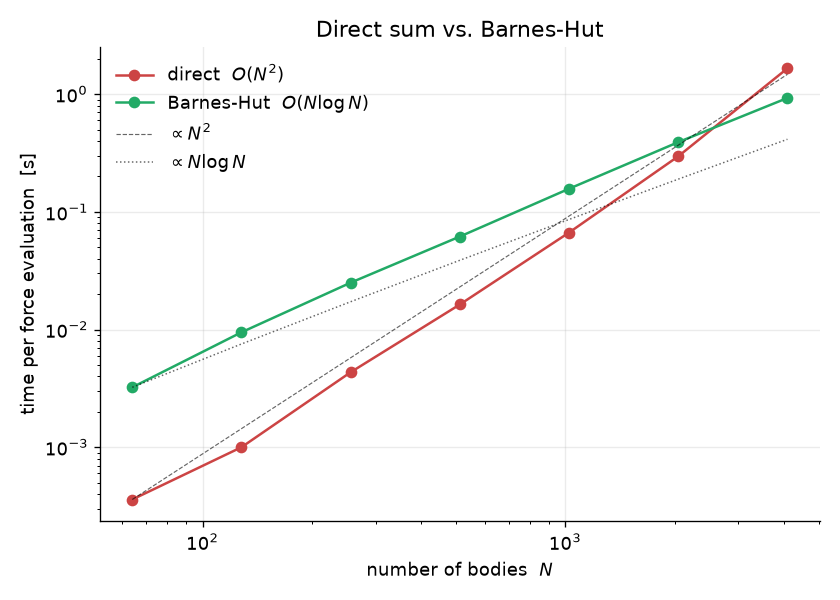
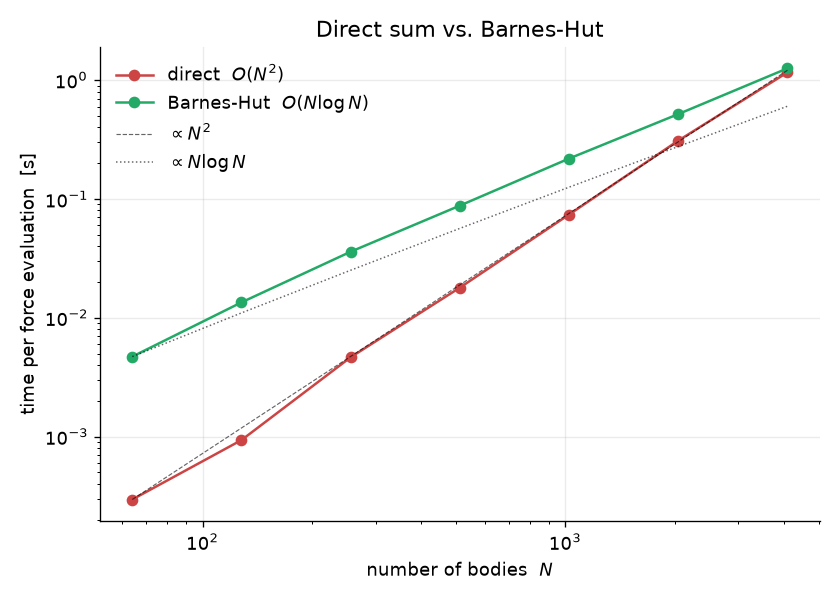
Add 3D octree cluster demo; refresh figures and README
New examples/octree_3d.py evolves a 3D Plummer cluster with the octree and
renders a slowly rotating view to figures/cluster_3d.gif, after reporting the
octree force error against the 3D direct sum.

Regenerate the 2D Barnes-Hut scaling plot and cluster animation (the tree and
plummer_sphere changes alter them), and update the README to describe the
quadtree/octree solver, embed the 3D cluster, and correct the limitations note.

Claude-Session: https://claude.ai/code/session_019LCqCXgNF7WcL81HF3qpmq

diff --git a/examples/octree_3d.py b/examples/octree_3d.py
@@ -1,0 +1,79 @@
+"""3D Barnes-Hut octree showcase: a star cluster evolved with the tree code.
+
+Confirms the octree matches the 3D direct sum, then evolves a 3D Plummer-sphere
+cluster entirely with Barnes-Hut and renders a slowly rotating view to
+``figures/cluster_3d.gif``.
+"""
+
+import numpy as np
+
+from _common import fig_path, use_style
+import matplotlib.pyplot as plt
+from matplotlib.animation import FuncAnimation, PillowWriter
+from mpl_toolkits.mplot3d import Axes3D  # noqa: F401  (registers 3D projection)
+
+from nbody import initial_conditions as ic, simulate, forces
+from nbody.barnes_hut import barnes_hut_accelerations, accelerations_bh
+
+
+def report_accuracy():
+    """Print the octree force error against the exact 3D direct sum."""
+    cluster = ic.plummer_sphere(n=400, seed=7, dim=3)
+    direct = forces.accelerations(cluster.positions, cluster.masses,
+                                  G=cluster.G, softening=cluster.softening)
+    for theta in (0.0, 0.3, 0.6):
+        bh = accelerations_bh(cluster.positions, cluster.masses, G=cluster.G,
+                              softening=cluster.softening, theta=theta)
+        rel = (np.linalg.norm(bh - direct, axis=1)
+               / np.linalg.norm(direct, axis=1))
+        print(f"theta={theta}: mean force error {rel.mean():.2e}, "
+              f"max {rel.max():.2e}")
+
+
+def make_gif():
+    sys = ic.plummer_sphere(n=300, total_mass=1.0, radius=1.0, seed=7, dim=3)
+    n_frames, steps_per_frame = 110, 3
+    dt = 4e-3
+    traj = simulate(sys, dt, n_frames * steps_per_frame,
+                    record_every=steps_per_frame,
+                    acc_func=barnes_hut_accelerations(theta=0.6))
+    print(f"3D cluster energy error (max): {traj.energy_error().max():.2e}")
+
+    pos = traj.positions
+    speed = np.linalg.norm(traj.velocities, axis=2)
+
+    fig = plt.figure(figsize=(5, 5))
+    ax = fig.add_subplot(111, projection="3d")
+    ax.set_facecolor("black")
+    fig.patch.set_facecolor("black")
+    lim = 2.0
+    ax.set_xlim(-lim, lim)
+    ax.set_ylim(-lim, lim)
+    ax.set_zlim(-lim, lim)
+    ax.set_axis_off()
+    ax.set_title("3D Plummer cluster, Barnes-Hut octree ($\\theta=0.6$)",
+                 color="white")
+
+    scat = ax.scatter(pos[0, :, 0], pos[0, :, 1], pos[0, :, 2],
+                      s=6, c=speed[0], cmap="plasma",
+                      vmin=0, vmax=speed.max(), depthshade=False)
+
+    def update(frame):
+        scat._offsets3d = (pos[frame, :, 0], pos[frame, :, 1], pos[frame, :, 2])
+        scat.set_array(speed[frame])
+        ax.view_init(elev=18, azim=frame)  # slow rotation
+        return (scat,)
+
+    anim = FuncAnimation(fig, update, frames=len(pos), interval=50, blit=False)
+    anim.save(fig_path("cluster_3d.gif"), writer=PillowWriter(fps=20), dpi=80)
+    print("wrote figures/cluster_3d.gif")
+
+
+def main():
+    use_style()
+    report_accuracy()
+    make_gif()
+
+
+if __name__ == "__main__":
+    main()

diff --git a/README.md b/README.md
@@ -99,18 +99,22 @@ is exponential (note the log axis).
 ### Barnes–Hut tree (O(N log N))
 
 For large $N$ the direct $O(N^2)$ sum is the bottleneck. `nbody/barnes_hut.py`
-implements a 2D quadtree Barnes–Hut solver: distant groups of bodies are
-replaced by their centre of mass when the cell subtends an angle below
-$\theta$. With $\theta = 0$ it reproduces the direct sum to machine precision;
-at a typical $\theta = 0.5$ the per-body force error is ~1%, and the cost scales
-as $O(N\log N)$, overtaking the direct sum a couple of thousand bodies in.
+implements a tree-code Barnes–Hut solver — a quadtree in 2D, an octree in 3D —
+where distant groups of bodies are replaced by their centre of mass when the
+cell subtends an angle below $\theta$. With $\theta = 0$ it reproduces the
+direct sum to machine precision (in both 2D and 3D); at a typical $\theta = 0.5$
+the per-body force error is ~1%, and the cost scales as $O(N\log N)$, overtaking
+the direct sum a couple of thousand bodies in. (The constant factor is larger in
+pure Python than a compiled code, so the 2D crossover sits around $N \approx
+2500$; the 3D octree carries more overhead per node.)
 
 ![Barnes-Hut scaling](figures/barnes_hut_scaling.png)
 
 A Plummer-sphere star cluster of a few hundred bodies, evolved entirely with the
-tree code:
+tree code — in 2D, and as a 3D octree:
 
 ![Cluster](figures/cluster.gif)
+![3D cluster](figures/cluster_3d.gif)
 
 ## Install
 
@@ -154,7 +158,8 @@ python examples/kepler_third_law.py       # T^2 vs a^3
 python examples/solar_system.py           # multi-body orbit plot
 python examples/figure_eight.py           # choreography + animation
 python examples/three_body_sensitivity.py # chaos / Lyapunov-style divergence
-python examples/barnes_hut_cluster.py     # cluster animation + scaling plot
+python examples/barnes_hut_cluster.py     # 2D cluster animation + scaling plot
+python examples/octree_3d.py              # 3D octree cluster animation
 ```
 
 ## Tests
@@ -178,7 +183,7 @@ nbody/
   integrators.py        velocity-Verlet, RK4, simulate(), Trajectory
   diagnostics.py        orbital elements, eccentricity vector, period
   initial_conditions.py two-body, solar system, figure-eight, Plummer, ...
-  barnes_hut.py         2D quadtree Barnes-Hut force evaluation
+  barnes_hut.py         Barnes-Hut force evaluation (2D quadtree / 3D octree)
 tests/                  pytest suite (physics, not smoke tests)
 examples/               figure-generating demo scripts
 figures/                generated figures
@@ -188,7 +193,9 @@ figures/                generated figures
 
 This is a learning/portfolio project, not a research code. Notable limitations:
 
-- The direct solver works in 2D or 3D; the Barnes–Hut tree is 2D only.
+- Both the direct solver and the Barnes–Hut tree work in 2D and 3D. The tree is
+  a pure-Python implementation, so its constant factor is large; it is meant to
+  demonstrate the $O(N\log N)$ scaling, not to compete with a compiled code.
 - The integrator uses a fixed timestep. Symplectic integrators and naive
   adaptive timestepping don't mix (varying $\Delta t$ breaks the conservation
   property), so adaptivity is deliberately omitted.
